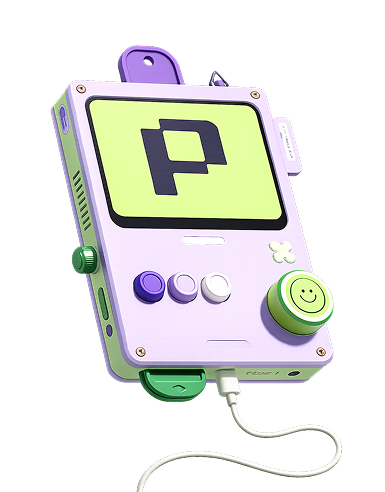
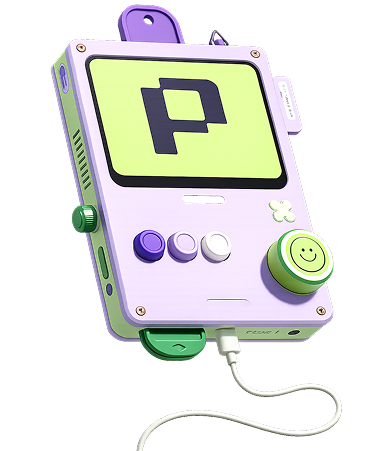
almost fix img sizes

diff --git a/src/components/WelcomePage/index.tsx b/src/components/WelcomePage/index.tsx
@@ -50,16 +50,15 @@ export function WelcomePage() {
         Welcome to Praxis: A new approach to prediction markets
       </h1>
 
-      <div className="w-full">
+      <div className="flex min-h-0 flex-1 items-end justify-center">
         <Image
           src="/welcome.png"
           alt="Praxis handheld console"
           width={385}
-          height={492}
+          height={451}
           priority
-          sizes="100vw"
-          className="h-auto w-full"
-          style={{ width: "100%", height: "auto" }}
+          sizes="(max-width: 28rem) 100vw, 28rem"
+          className="h-auto max-h-full w-full object-contain"
         />
       </div>
 
